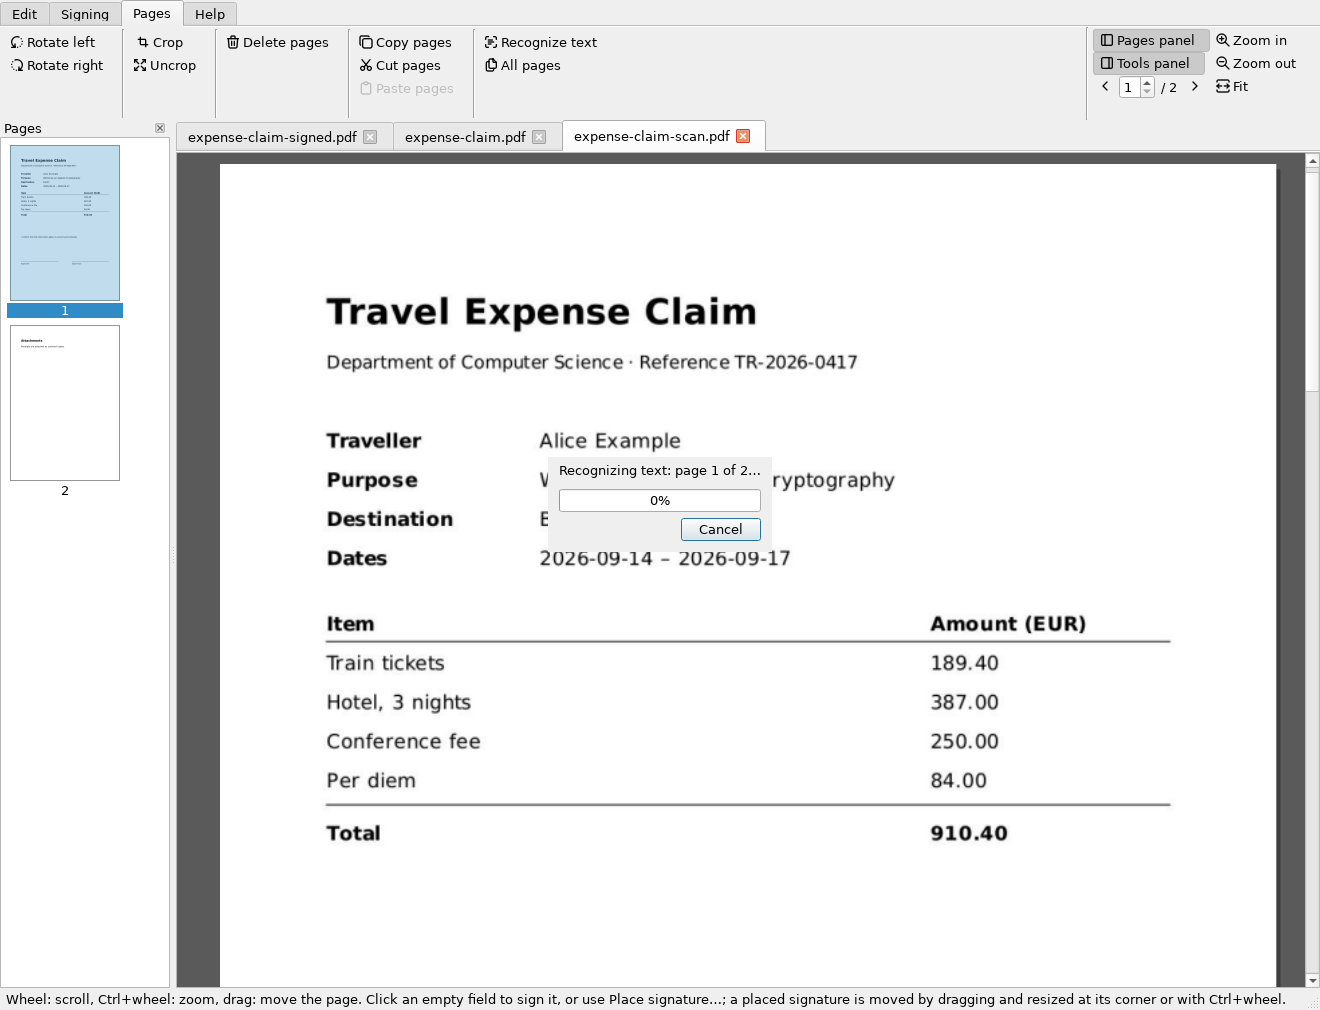
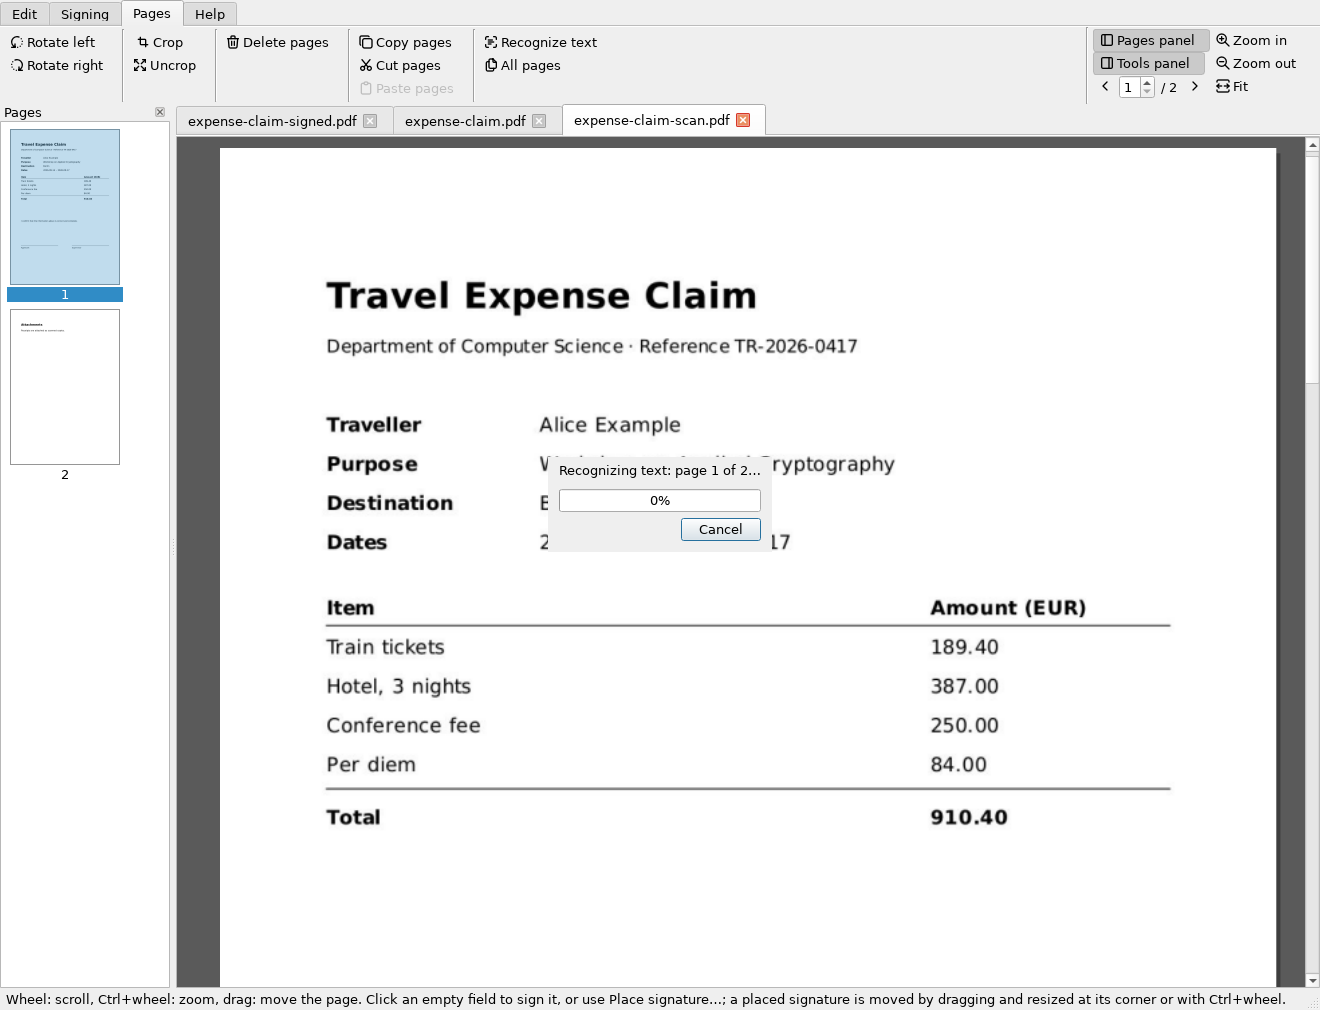
Ribbon: room for the scroll bar only while it scrolls
The ribbon reserved the horizontal scroll bar's height (14 px, plus 4
spare) at all times, though the bar only appears when the window is
narrower than a tab or the View group. Now its height is the buttons'
alone, and grows by the scroll bar's while the current tab or the View
group scrolls (checked on resizing and switching tabs): 104 instead of
120 px in a wide window.

diff --git a/src/slim_pdf/gui/ribbon.py b/src/slim_pdf/gui/ribbon.py
@@ -198,9 +198,12 @@ class Ribbon(QWidget):
         lay.addWidget(self.bar)
         lay.addLayout(self.body)
         self.view_controls: RibbonGroup | None = None
+        self._view_scroll: _SideScroll | None = None
+        self._height = 0  # without a scroll bar (refit)
 
     def _switch(self, index: int) -> None:
         self.stack.setCurrentIndex(index)
+        self._update_height()  # another tab may need a scroll bar, or not
         self.currentChanged.emit(index)
 
     def tab(self, title: str) -> RibbonTab:
@@ -231,7 +234,8 @@ class Ribbon(QWidget):
         line.setFrameShape(QFrame.VLine)
         line.setFrameShadow(QFrame.Sunken)
         self.body.addWidget(line)
-        self.body.addWidget(_SideScroll(group))  # narrow windows: scrolls, like a tab
+        self._view_scroll = _SideScroll(group)  # narrow windows: scrolls, like a tab
+        self.body.addWidget(self._view_scroll)
         self.view_controls = group
         return group
 
@@ -253,10 +257,31 @@ class Ribbon(QWidget):
 
     def refit(self) -> None:
         """Once the buttons are in: room for the tallest tab or the view
-        group (and a scroll bar, for narrow windows)."""
+        group, plus a scroll bar while one is shown (see _update_height)."""
         bar = self.bar.sizeHint().height()
         heights = [self.tab_page(i).sizeHint().height() for i in range(self.count())]
         if self.view_controls is not None:
             heights.append(self.view_controls.sizeHint().height())
+        self._height = bar + max(heights, default=0) + 2
+        self._update_height()
+
+    def scrolls(self) -> bool:
+        """Whether the current tab or the view group is too wide for its
+        place, so it scrolls sideways (with a scroll bar)."""
+        areas = [self.stack.currentWidget(), self._view_scroll]
+        return any(a is not None and a.width() < a.widget().minimumSizeHint().width()
+                   for a in areas)
+
+    def _update_height(self) -> None:
+        """The scroll bar's room only while there is one: a wide window
+        has no empty strip under the buttons."""
+        if not self._height:
+            return
         scrollbar = self.style().pixelMetric(QStyle.PM_ScrollBarExtent)
-        self.setFixedHeight(bar + max(heights, default=0) + scrollbar + 4)
+        height = self._height + (scrollbar if self.scrolls() else 0)
+        if height != self.height():
+            self.setFixedHeight(height)
+
+    def resizeEvent(self, event):  # noqa: N802 - Qt's name
+        super().resizeEvent(event)
+        self._update_height()

diff --git a/tests/test_gui.py b/tests/test_gui.py
@@ -1753,3 +1753,24 @@ def test_check_again_and_details_buttons(window, form_pdf, p12, tmp_path, monkey
     assert len(shown) == 1
     window.open(form_pdf)  # no signatures: nothing to show
     assert not window.details_act.isEnabled()
+
+
+def test_ribbon_has_room_for_a_scroll_bar_only_when_it_scrolls(window, qapp):
+    """No empty strip under the buttons in a wide window; a narrow one gets
+    the scroll bar's room, and the buttons stay whole."""
+    rb = window.ribbon
+    rb.setCurrentIndex(2)  # Pages: the widest tab
+    window.resize(1600, 900)
+    qapp.processEvents()
+    wide = rb.height()
+    assert not rb.scrolls()
+    assert not rb.stack.currentWidget().horizontalScrollBar().isVisible()
+    window.resize(500, 900)
+    qapp.processEvents()
+    page = rb.stack.currentWidget()
+    assert rb.scrolls() and page.horizontalScrollBar().isVisible()
+    assert rb.height() == wide + rb.style().pixelMetric(QtWidgets.QStyle.PM_ScrollBarExtent)
+    assert page.viewport().height() >= page.widget().minimumSizeHint().height()
+    window.resize(1600, 900)
+    qapp.processEvents()
+    assert rb.height() == wide
